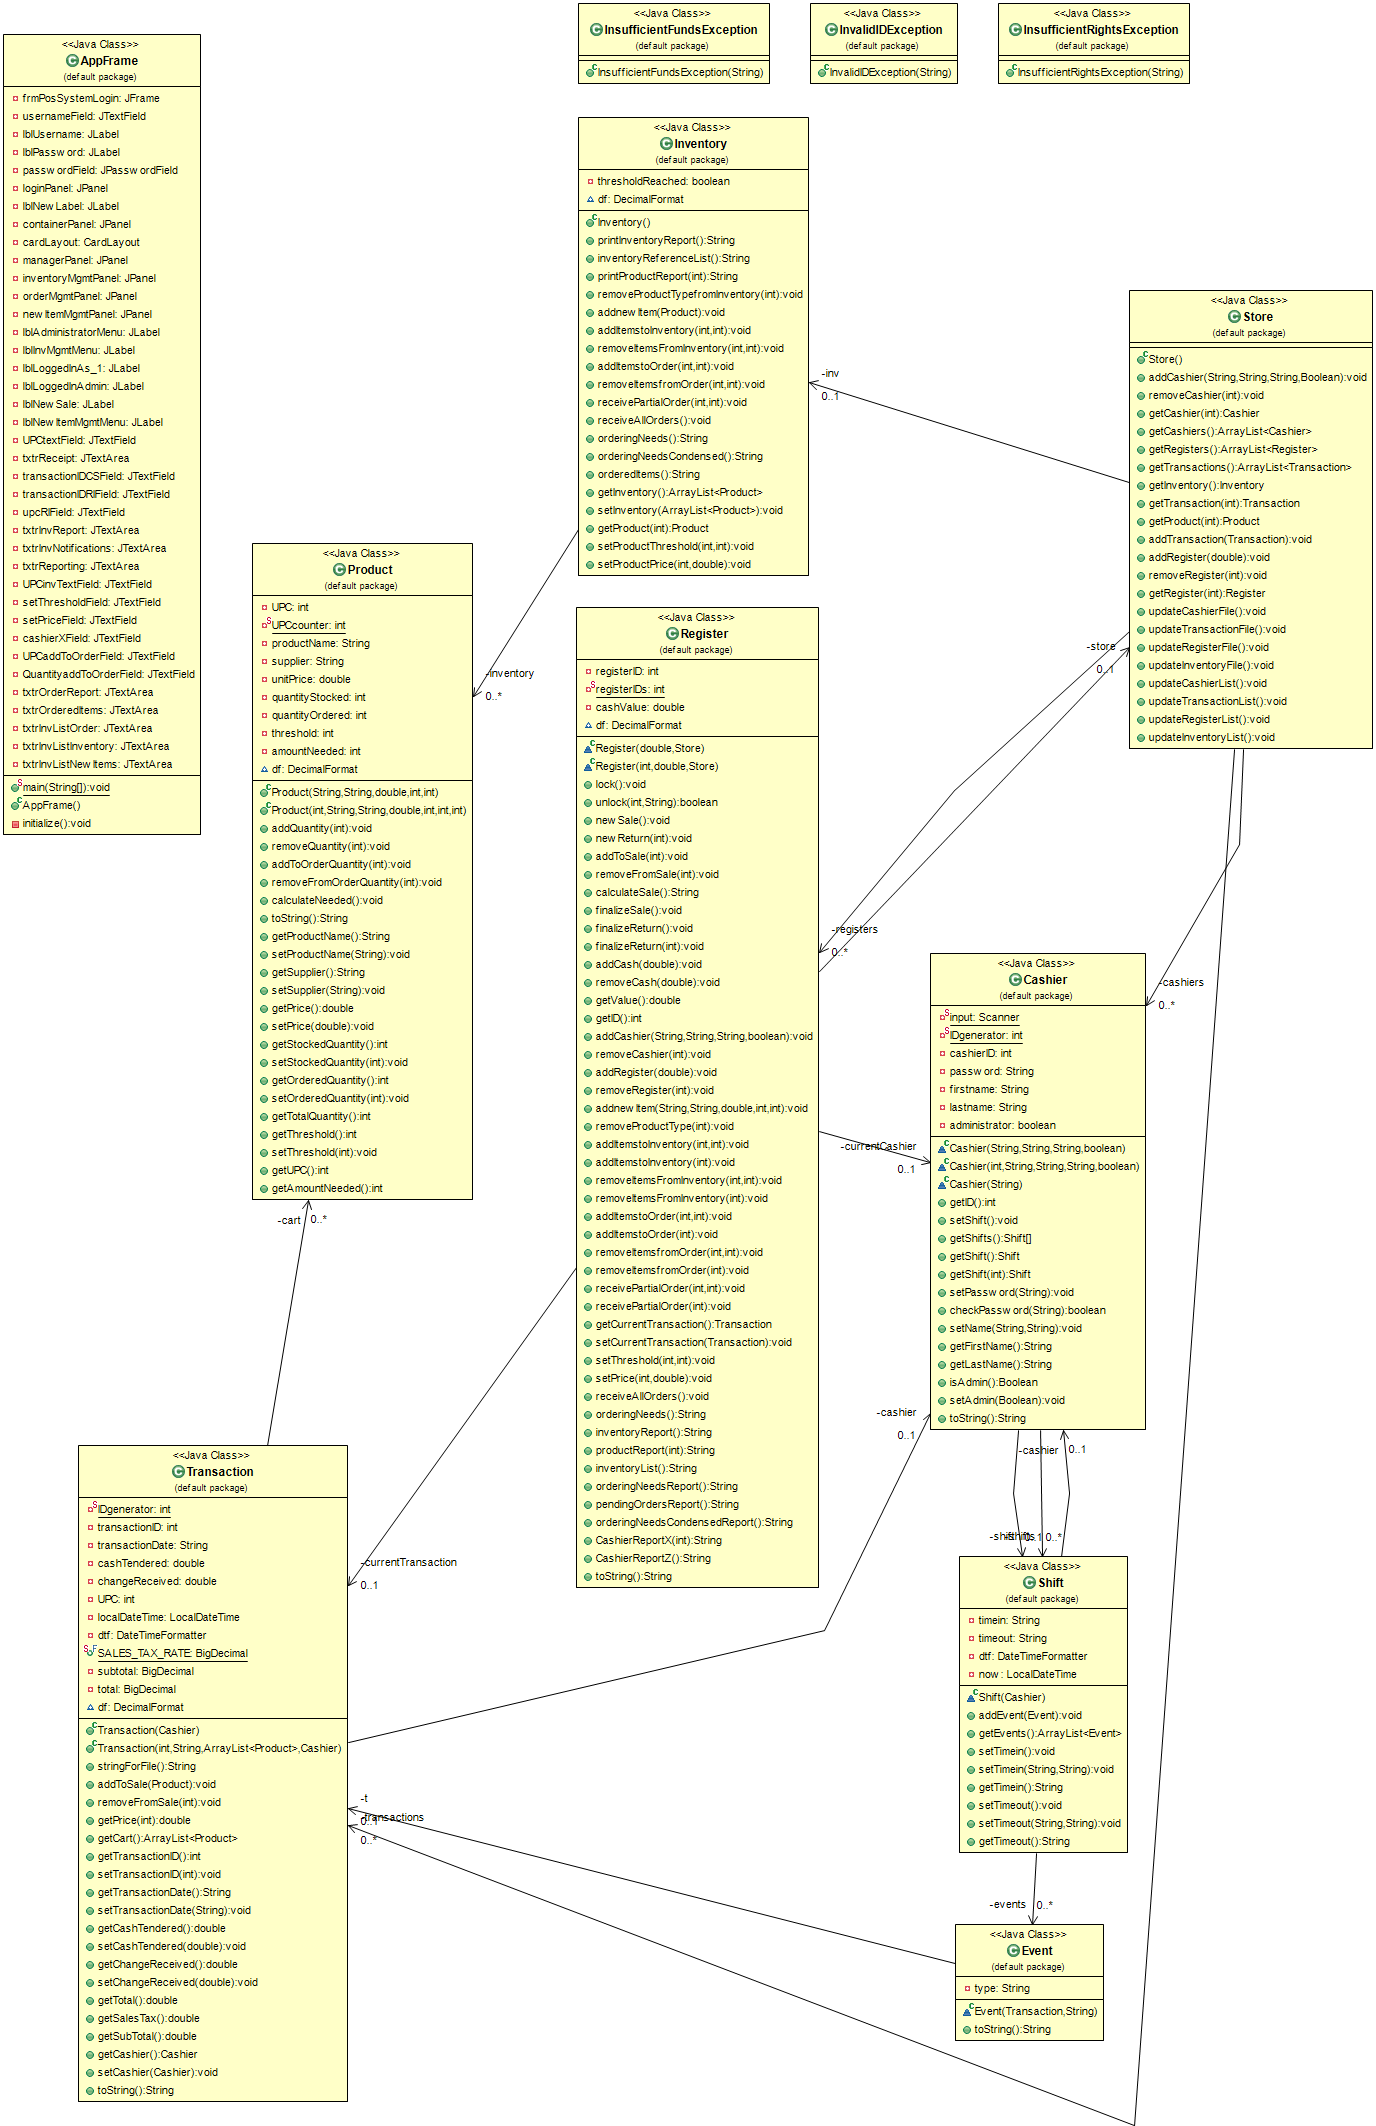
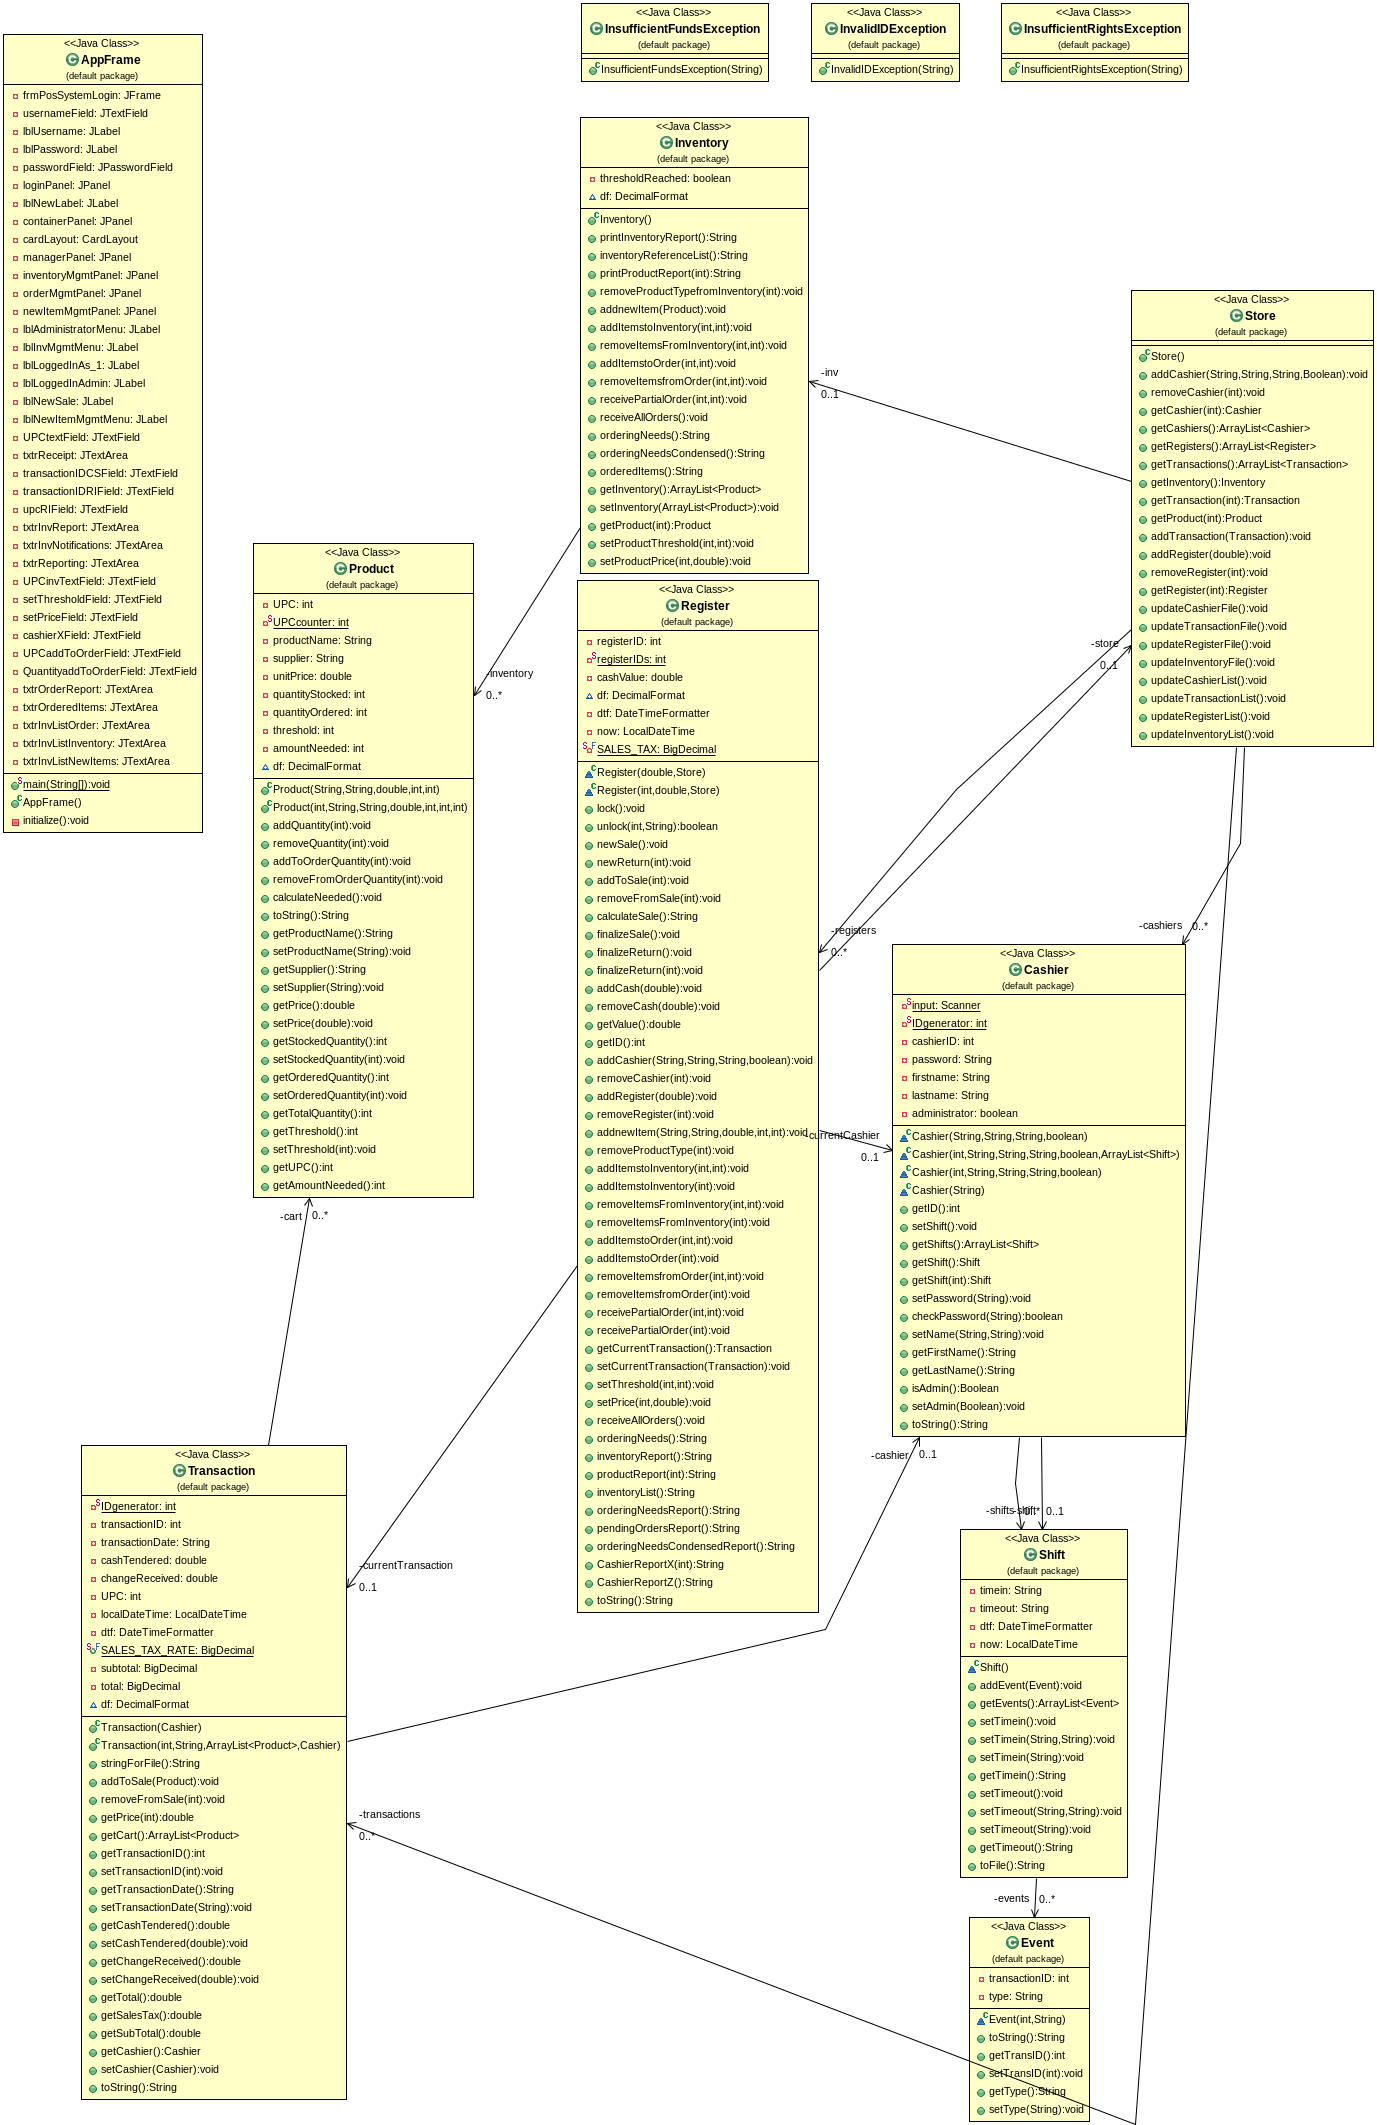
updated UML, added BigDecimal sales tax calculations for returns

diff --git a/POSSystem/src/AppFrame.java b/POSSystem/src/AppFrame.java
@@ -7,6 +7,8 @@ import javax.swing.JButton;
 import javax.swing.JTextField;
 import java.awt.event.ActionListener;
 import java.io.IOException;
+import java.math.BigDecimal;
+import java.math.RoundingMode;
 import java.text.DecimalFormat;
 import java.awt.event.ActionEvent;
 import javax.swing.JPasswordField;
@@ -370,9 +372,13 @@ public class AppFrame {
 		btnAdminPrintCashierX.setBounds(324, 345, 140, 25);
 		btnAdminPrintCashierX.addActionListener(new ActionListener() {
 			public void actionPerformed(ActionEvent arg0) {
-				int ID = Integer.parseInt(cashierXField.getText());
-				System.out.println("Action Listened to");
-				txtrReporting.setText(register.CashierReportX(ID));
+				try {
+					int ID = Integer.parseInt(cashierXField.getText());
+					System.out.println("Action Listened to");
+					txtrReporting.setText(register.CashierReportX(ID));
+				} catch (NumberFormatException e) {
+					JOptionPane.showMessageDialog(frmPosSystemLogin, "Invalid Cashier No.");
+				}
 			}
 		});
 		managerPanel.add(btnAdminPrintCashierX);
@@ -1197,8 +1203,12 @@ public class AppFrame {
 		btnReturnItemRI.addActionListener(new ActionListener() {
 			public void actionPerformed(ActionEvent arg0) {
 				try {
+					BigDecimal salesTax = new BigDecimal("0.07875");
+					BigDecimal itemPrice = new BigDecimal(String.valueOf(register.getCurrentTransaction().getPrice(Integer.parseInt(upcRIField.getText()))));
+					itemPrice = itemPrice.add(itemPrice.multiply(salesTax));
+					itemPrice.setScale(2, RoundingMode.HALF_UP);
 					JOptionPane.showMessageDialog(frmPosSystemLogin, "Refund "
-							+ df.format(register.getCurrentTransaction().getPrice(Integer.parseInt(upcRIField.getText()))) 
+							+ df.format(itemPrice) 
 							+ " to the customer for this transaction.");
 					register.finalizeReturn(Integer.parseInt(upcRIField.getText()));
 				} catch (NumberFormatException e) {

diff --git a/POSSystem/src/Register.java b/POSSystem/src/Register.java
@@ -3,6 +3,8 @@ import java.io.FileNotFoundException;
 import java.io.FileWriter;
 import java.io.IOException;
 import java.io.PrintWriter;
+import java.math.BigDecimal;
+import java.math.RoundingMode;
 import java.text.DecimalFormat;
 import java.util.ArrayList;
 import java.util.Scanner;
@@ -21,6 +23,7 @@ public class Register {
   DecimalFormat df = new DecimalFormat("$###,##0.00");
   private DateTimeFormatter dtf = DateTimeFormatter.ofPattern("MM/dd/yyyy");
   private LocalDateTime now = LocalDateTime.now();
+  private static final BigDecimal SALES_TAX = new BigDecimal("0.07875");
 
   Register(double initCash, Store store){
 	  //this block is to update the running ID txt file
@@ -157,7 +160,10 @@ public class Register {
   
   // overloaded method to return just a single item
   public void finalizeReturn(int UPC) throws InvalidIDException, IOException, InsufficientFundsException {
-	  removeCash(currentTransaction.getPrice(UPC));
+	  BigDecimal itemPrice = new BigDecimal(String.valueOf(getCurrentTransaction().getPrice(UPC)));
+	  itemPrice = itemPrice.add(itemPrice.multiply(SALES_TAX));
+	  itemPrice.setScale(2, RoundingMode.HALF_UP);
+	  removeCash(itemPrice.doubleValue());
 	  currentTransaction.removeFromSale(UPC);
 	  store.updateTransactionFile();
 	  
@@ -167,7 +173,6 @@ public class Register {
 	  
 	  currentCashier.getShift().addEvent(new Event(currentTransaction.getTransactionID(), "Return"));
 	  store.updateCashierFile();
-	  
   }
   
   //****************************************************************************************** 
